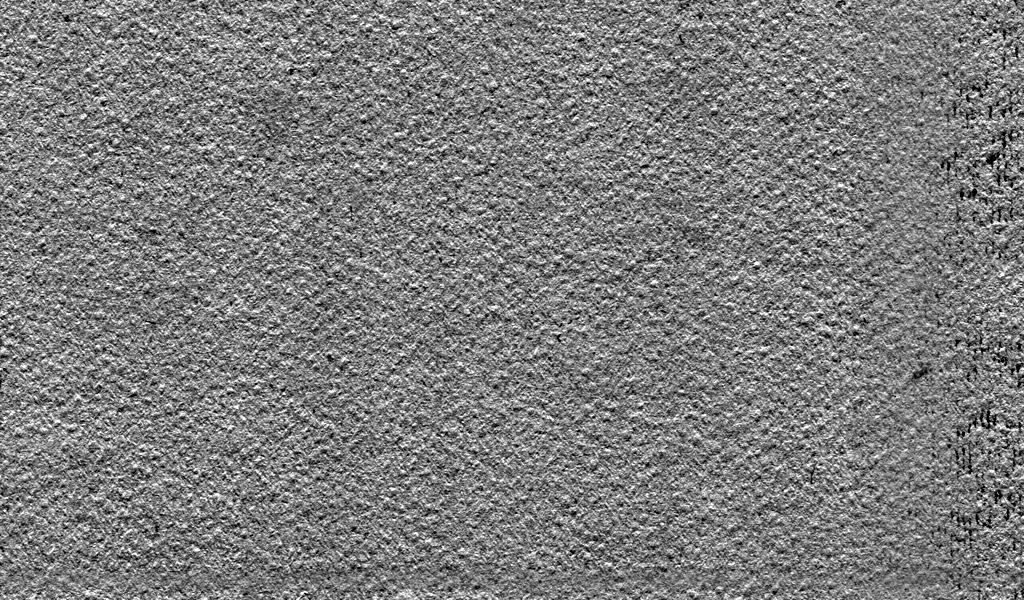
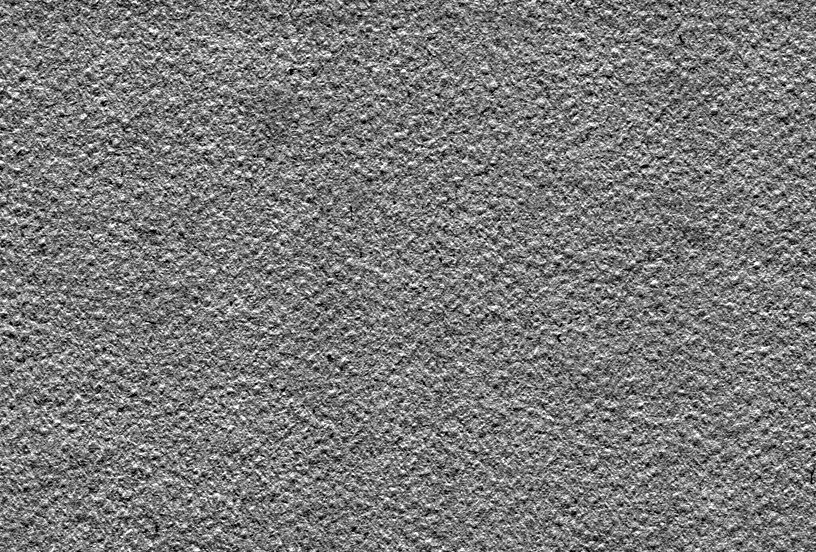
B459: the Plain paper without its streaked strip (Q254)
The Plain scan had a strip at its right edge where the grain is smeared
into vertical streaks; it repeated every 1024 px as a pale band down every
large mark of Pencil, Gouache and Ink wash. make_papers.py crops the scan
to the part that is paper and makes it tile again with a cross-fade that
keeps the contrast. Plain is 816x552; its pin is re-recorded, by decision.

NoStripOfAScanIsSmearedIntoStreaks guards four of the five sheets; Kraft
has the same fault and waits for the same decision.

diff --git a/tests/Lightbox.Raster.Tests/ScannedPaperTests.cs b/tests/Lightbox.Raster.Tests/ScannedPaperTests.cs
@@ -111,11 +111,70 @@ public class ScannedPaperTests(ITestOutputHelper output)
     }
 
     /// <summary>
+    /// No strip of a sheet is smeared: the grain is as busy down every band of
+    /// columns, and across every band of rows, as it is on the sheet as a whole.
+    /// </summary>
+    /// <remarks>
+    /// The Plain scan shipped with a strip at its right edge where the grain
+    /// ran into vertical streaks - where the scan's maker had blended the tile
+    /// shut. Its edges met, so the wrap test above passed; on a canvas it was a
+    /// pale band every 1024 px down every large mark of Pencil, Gouache and Ink
+    /// wash, found in a 300 px wash the day the paper merged. Measured as the
+    /// mean step between neighbouring texels along a 16-texel band against the
+    /// sheet's median: 0.75 on that strip, 0.94 on the cleaned sheet.
+    /// Kraft is not here yet: it has the same fault at its left and top edges
+    /// (0.74), and replacing a shipped sheet is the owner's decision each time
+    /// (Q254 decided Plain).
+    /// </remarks>
+    [Theory]
+    [InlineData(PaperKind.Plain)]
+    [InlineData(PaperKind.Fibre)]
+    [InlineData(PaperKind.Linen)]
+    [InlineData(PaperKind.Plaster)]
+    public void NoStripOfAScanIsSmearedIntoStreaks(PaperKind kind)
+    {
+        int w = PaperField.TilePeriod(kind, 8), h = PaperField.TilePeriodY(kind, 8);
+        var field = new float[w * h];
+        PaperField.Fill(field, w, h, 0, 0, kind, 8);
+
+        // How busy each column is going down it, and each row going along it.
+        var columns = new double[w];
+        var rows = new double[h];
+        for (var y = 0; y < h; y++)
+        {
+            for (var x = 0; x < w; x++)
+            {
+                var here = field[(y * w) + x];
+                columns[x] += Math.Abs(field[(((y + 1) % h) * w) + x] - here) / h;
+                rows[y] += Math.Abs(field[(y * w) + ((x + 1) % w)] - here) / w;
+            }
+        }
+
+        var worstColumns = Quietest(columns, 16);
+        var worstRows = Quietest(rows, 16);
+        output.WriteLine($"{kind}: the quietest band of columns is {worstColumns:0.00} of the sheet's median, of rows {worstRows:0.00}");
+        Assert.True(worstColumns >= 0.85, $"{kind} has a band of columns smeared into streaks: {worstColumns:0.00} of the median");
+        Assert.True(worstRows >= 0.85, $"{kind} has a band of rows smeared into streaks: {worstRows:0.00} of the median");
+    }
+
+    /// <summary>The least busy band of <paramref name="width"/>, wrapping, as a fraction of the median band.</summary>
+    private static double Quietest(double[] busy, int width)
+    {
+        var bands = new double[busy.Length];
+        for (var i = 0; i < busy.Length; i++)
+        {
+            for (var k = 0; k < width; k++) bands[i] += busy[(i + k) % busy.Length] / width;
+        }
+        var sorted = bands.OrderBy(b => b).ToArray();
+        return sorted[0] / sorted[sorted.Length / 2];
+    }
+
+    /// <summary>
     /// At its native grain size a scan is the embedded file, texel for pixel,
     /// and its proportions are the scan's own.
     /// </summary>
     [Theory]
-    [InlineData(PaperKind.Plain, 1024, 600)]
+    [InlineData(PaperKind.Plain, 816, 552)]
     [InlineData(PaperKind.Kraft, 794, 1024)]
     [InlineData(PaperKind.Fibre, 1024, 1024)]
     [InlineData(PaperKind.Linen, 1024, 1024)]
@@ -139,7 +198,7 @@ public class ScannedPaperTests(ITestOutputHelper output)
     /// replaced scan needs a new kind, not a new file under an old name.
     /// </summary>
     [Theory]
-    [InlineData(PaperKind.Plain, "9536CD9900B2-E542E34A87A6-69577B814F19")]
+    [InlineData(PaperKind.Plain, "CDC033D29A16-CB96CDF0FA63-BB7E02EB9FDC")] // re-recorded 2026-10-12: the streaked strip cut out (Q254, B459)
     [InlineData(PaperKind.Kraft, "87A43F6260FF-12C28E384E5D-F45CB3CCDC7E")]
     [InlineData(PaperKind.Fibre, "CE10CA61DEA9-75DA70D559E5-B38548207CB5")]
     [InlineData(PaperKind.Linen, "01F02A42986A-F110512B6941-D1C47DF779F0")]

diff --git a/scripts/make_papers.py b/scripts/make_papers.py
@@ -8,6 +8,13 @@ Each paper is the set's 1K displacement map, as 8-bit grey, white = peaks:
      tooth, not a tile-sized light patch that would repeat across a canvas;
   2. stretched between the 0.5th and 99.5th percentile, so every paper uses
      the whole range and "depth" means the same thing on each.
+
+Before either, a scan listed in CLEAN is cut down to the part of it that is
+paper. Paper001 has a strip some 140 px wide at its right edge where the grain
+is smeared into vertical streaks (where its maker blended the tile shut); it
+repeated across a canvas as a band on every large mark. The strip is cropped
+off and the rest is made to tile again by cross-fading its first columns and
+rows with the ones that follow its last, keeping the contrast through the fade.
 """
 import sys, pathlib
 import numpy as np
@@ -19,9 +26,30 @@ out.mkdir(parents=True, exist_ok=True)
 
 SETS = {"plain": "Paper001", "kraft": "Paper002", "fibre": "Paper006", "linen": "Fabric061", "plaster": "Plaster001"}
 CUT = 256.0
+# name: (columns of clean paper to keep, cross-fade across, cross-fade down)
+CLEAN = {"plain": (880, 64, 48)}
+
+
+def overlap(u, size, margin, axis):
+    """A tile `size` long on `axis` from `size + margin` of content: its first
+    `margin` is cross-faded with what follows its end, so the two ends meet."""
+    u = np.moveaxis(u, axis, 1)
+    body = u[:, :size].copy()
+    tail = u[:, size:size + margin]
+    t = (np.arange(margin) + 0.5) / margin  # 0 at the seam, 1 inside
+    t = t * t * (3 - 2 * t)
+    mean = u.mean()
+    mixed = (t * (body[:, :margin] - mean)) + ((1 - t) * (tail - mean))
+    body[:, :margin] = mean + mixed / np.sqrt(t * t + (1 - t) * (1 - t))  # keeps the contrast through the fade
+    return np.moveaxis(body, 1, axis)
+
 
 for name, asset in SETS.items():
     a = np.asarray(Image.open(root / asset / f"{asset}_1K-JPG_Displacement.jpg").convert("L"), dtype=np.float64)
+    if name in CLEAN:
+        keep_w, mx, my = CLEAN[name]
+        a = overlap(a[:, :keep_w], keep_w - mx, mx, 1)
+        a = overlap(a, a.shape[0] - my, my, 0)
     h, w = a.shape
     fx = np.fft.fftfreq(w)[None, :]
     fy = np.fft.fftfreq(h)[:, None]

diff --git a/.claude/quality/BUGS.md b/.claude/quality/BUGS.md
@@ -1294,6 +1294,13 @@ test reopens the bug.
   - Measured: peak alpha on a wash of 60 stays **60** after a blur. It used to climb to opaque. Cost: S
   - **Smudge and blender have the same runaway and it is not fixed — that is B38.** Splitting them because the fixes are not the same size: blur replaces a region and `Src` says exactly that, while a smudge has to blend and there is no blend mode for it.
 
+- [x] **B459** `P2` `brush` The Plain paper repeats a streaked band down every large mark `evidence: NoStripOfAScanIsSmearedIntoStreaks`
+  - **Seen in a render of the lab's own gesture**, 2026-10-12, while checking how the new Ink wash looks at 300 px: a pale band of vertical streaks through every stroke at the same x. It is in the sheet, not the brush - the Plain scan has a strip about 140 px wide at its right edge where the grain is smeared (where the scan's maker blended the tile shut), so it repeats every 1024 px at the default grain size, on Pencil and Gouache as well.
+  - **Why the paper tests passed:** they check that the tile's edges meet and that it uses the whole range. Both are true of a sheet with a smeared strip in it. The papers were judged on sheets drawn at 26 to 30 px, where a 140 px band in a 1024 px tile is easy to miss.
+  - **Fix:** `scripts/make_papers.py` crops Paper 001 to the 880 columns that are paper and makes them tile again with a contrast-preserving cross-fade; Plain is 816x552. Replacing a pinned surface changes where the grain falls in strokes already drawn on it, which the owner decided (Q254).
+  - **Guard:** `NoStripOfAScanIsSmearedIntoStreaks` - the quietest 16-texel band of columns and of rows against the sheet's median: 0.75 on the old Plain, 0.94 now; Fibre 0.95, Linen 0.98, Plaster 0.86.
+  - **Left open on purpose, needs the same decision:** Kraft has the same fault at its left and top edges (0.74). No shipped brush uses it.
+
 - [x] **B454** `P2` `brush` Blur and smudge walk the whole stroke on every pointer event `evidence: ALongStrokeKeepsUpWithThePenTests, StablePositions`
   - **Found in review of B449** (leak-hunter and the adversary, independently). The effect draft in `FlushLivePreview` called `WalkDabs(live, _live.Densify)` and `StableCount(walk, _live.EffectDabs)` per event: a new list of every dab and a comparison of every position, the same shape B449 removed from paint and left standing here. The only budget on this path, `SmudgeCostTests`, draws 80 points.
   - **Fix:** the draft shares the stroke's kept walk (`LiveDabWalk` - the two paths are exclusive) and settles by position on the tail (`BrushEngine.StablePositions`), the rule it always used.

diff --git a/.claude/quality/questions/Q254-replacing-the-plain-paper-scan-to-remove-its-streaked-strip.md b/.claude/quality/questions/Q254-replacing-the-plain-paper-scan-to-remove-its-streaked-strip.md
@@ -1,0 +1,23 @@
+# Q254 · Replacing the Plain paper scan to remove its streaked strip — **answered 2026-10-12**
+
+**Answered: replace Plain under its own name, as recommended.**
+
+Raised by: B459. A 300 px Ink wash drawn across the canvas showed a pale band of vertical streaks every 1024 px. The Plain scan (ambientCG Paper 001) has a strip some 140 px wide at its right edge where the grain is smeared - where its maker blended the tile shut. Pencil, Gouache and Ink wash all sit on Plain.
+
+What it blocks: the fix. `ScannedPaperTests.TheSurfaceIsTheOneThatShipped` pins each scan and says why: a stroke on one of these papers has to replay to the same pixels in every later build, so "a replaced scan needs a new kind, not a new file under an old name". Cleaning the tile changes its size (1024x600 to 816x552) and so where its grain falls.
+
+## What was asked
+
+How the cleaned tile should go in.
+
+- **Replace Plain (recommended, chosen).** Every brush on Plain loses the band at once. Cost: anything drawn on Plain since it merged on 2026-10-11 re-renders with the same paper and its grain in different places.
+- **Add a new paper kind.** Existing strokes stay pixel-identical. Cost: a paper in the list that exists only to preserve a defect, and brushes saved on Plain keep the band.
+- **Leave it.** The band stays.
+
+## Why the rule bends here and not in general
+
+The paper had been on main for one day when this was asked, and the fault is in the sheet itself and not a matter of taste. The pin stays, re-recorded, and the rule it states stands for every later change.
+
+## Not decided here
+
+Kraft (Paper 002) has the same fault at its left and top edges, measured the same way (0.74 against Plain's 0.75 before cleaning). No shipped brush uses it. It was not part of this question and is not changed; `NoStripOfAScanIsSmearedIntoStreaks` leaves it out and says so.

diff --git a/docs/CREDITS-papers.md b/docs/CREDITS-papers.md
@@ -35,6 +35,14 @@ turns it into the file under `src/Lightbox.Raster/Media/Papers/`:
 Paper 001 and Paper 002 are not square and are kept in their own proportions:
 squaring them would stretch the grain.
 
+Paper 001 is also cut down first. It has a strip about 140 pixels wide at its
+right edge where the grain is smeared into vertical streaks, and on a canvas
+that repeated as a pale band down every large mark (B459). The script keeps
+the 880 columns that are paper and makes them tile again by cross-fading the
+first 64 columns and 48 rows with the ones that follow the last, so Plain is
+816 by 552. Paper 002 has the same fault at two edges and has not been cleaned
+yet (Q254).
+
 ## Why these and not others
 
 The first papers tried were a purchased set whose licence grants commercial
